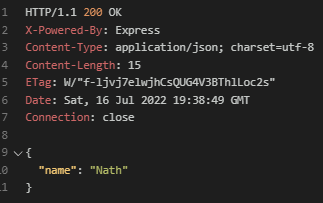
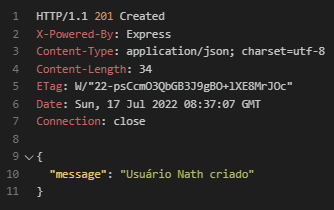
Post method updated

diff --git a/src/routes.js b/src/routes.js
@@ -13,9 +13,9 @@ routes.get('/users', (request, response) => {
 })
 
 routes.post('/users', (request, response) => {
-  const newUser = (request.body)    // Get the request's body content, which should be a new user (although we did not validated it yet)   
-  database.push(newUser)            // Put the new user on the database
-  return response.status(200).json(newUser)  // Return the saved user as the response
+  const { name } = request.body   // Get the name from request's body content, which should be a new user (although we did not validated it yet)   
+  database.push(name)             // Put the new user on the database
+  return response.status(201).json({'message': `Usuário ${name} criado`})  // Return the saved user name as the response
 })
 
 export { routes }

diff --git a/README.md b/README.md
@@ -135,9 +135,9 @@ Criaremos um server de teste com uso do `Node` e `Jest` para testes automatizado
 ```javascript
   [...]
   routes.post('/users', (request, response) => {
-  const newUser = (request.body)    // Get the request's body content, which should be a new user (although we did not validated it yet)   
-  database.push(newUser)            // Put the new user on the database
-  return response.status(200).json(newUser)  // Return the saved user as the response
+    const { name } = request.body   // Get the name from request's body content, which should be a new user (although we did not validated it yet)   
+    database.push(name)             // Put the new user on the database
+    return response.status(201).json({'message': `Usuário ${name} criado`})  // Return the saved user name as the response
   })
   [...]
 ```
